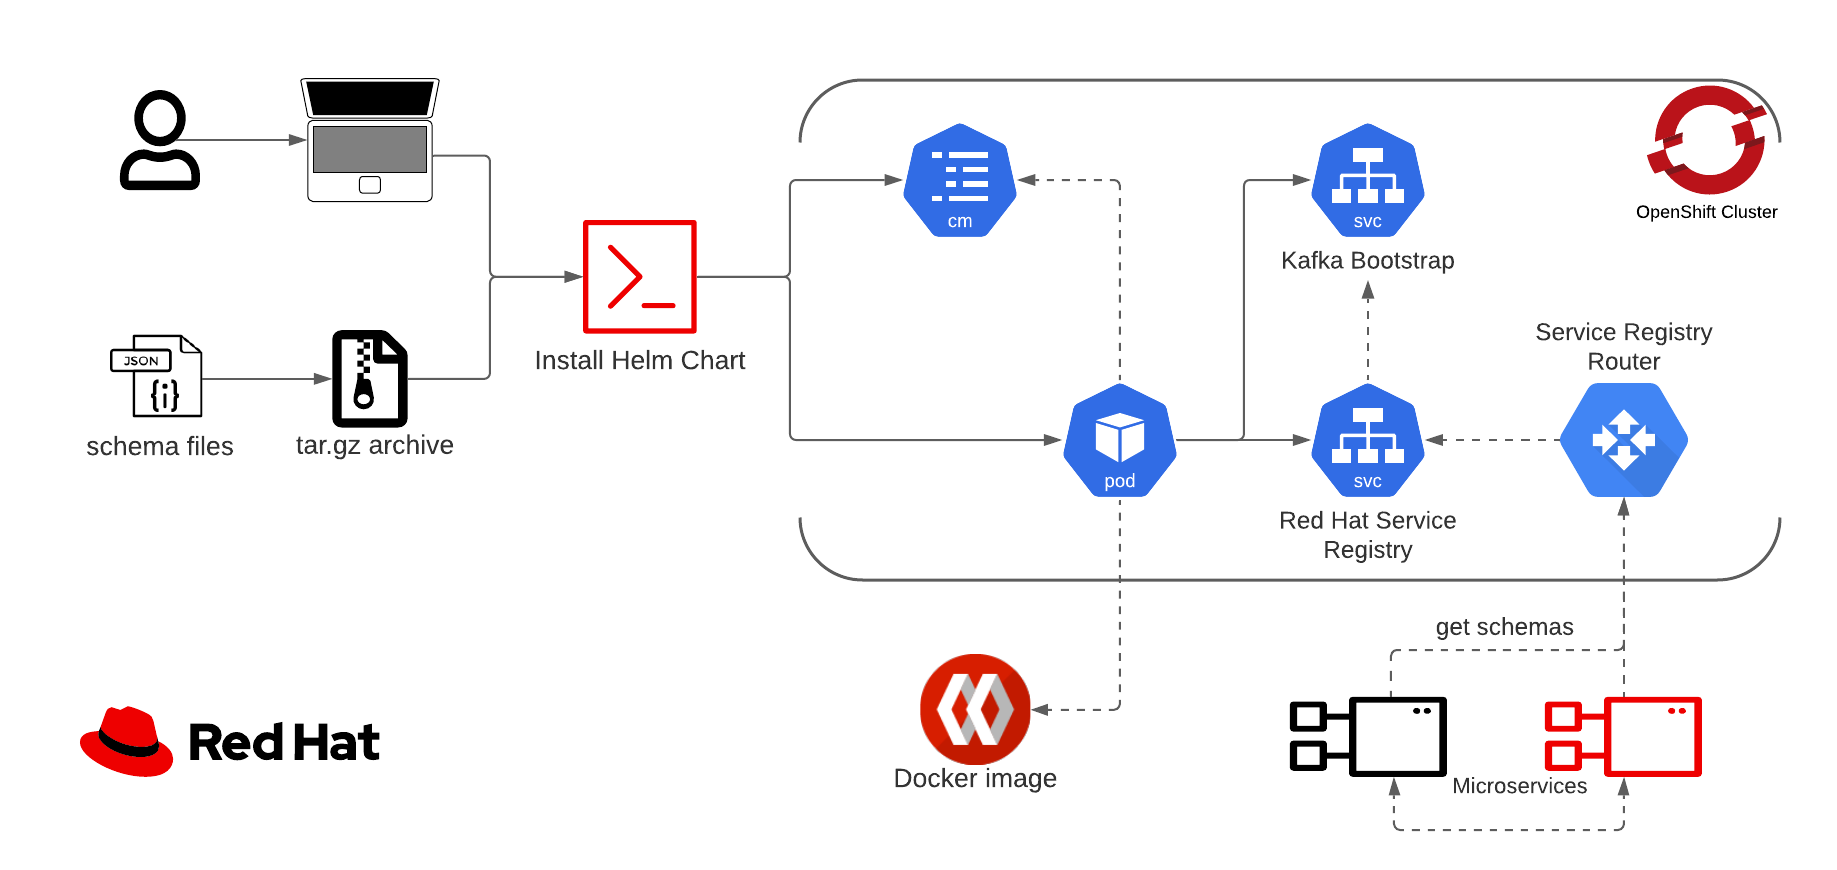
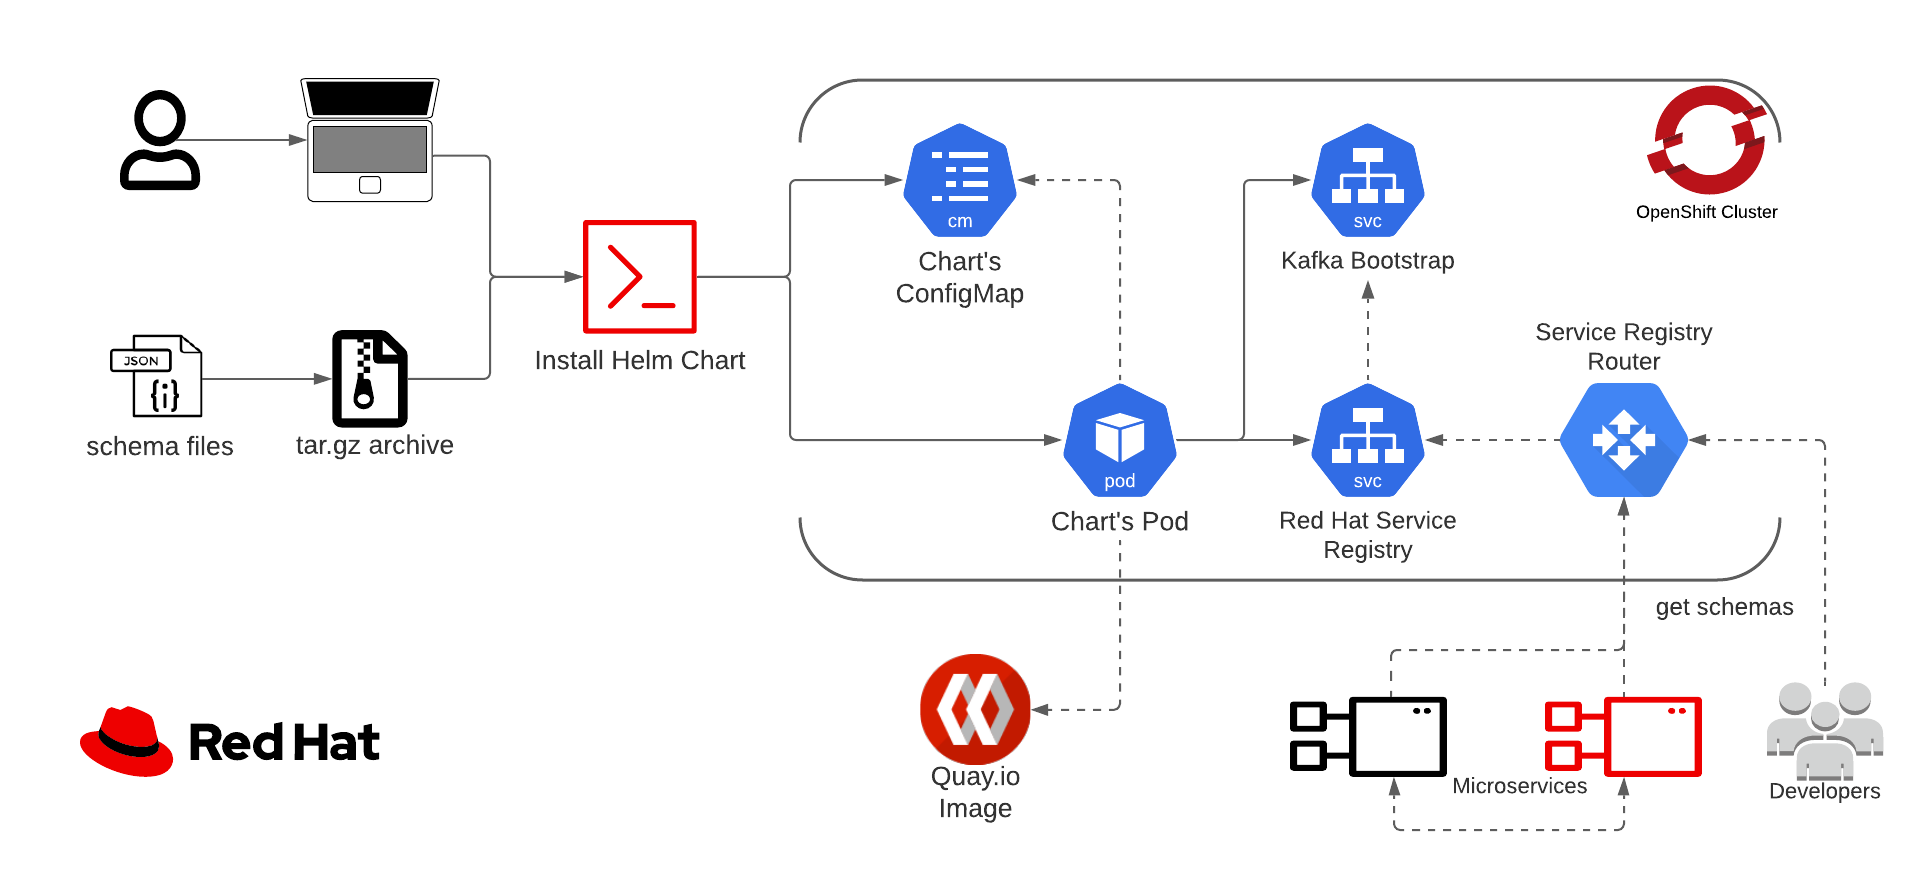
docs: updated schema_pusher diagram and documentation

diff --git a/schema-pusher/README.md b/schema-pusher/README.md
@@ -16,7 +16,7 @@ And if you're in for the *full* [OpenShift][12] experience,</br>
 got your underlying *Kafka* deployment covered with [AMQ Streams][14].
 
 This *Helm Chart* helps you easily migrate your various data structures, schemas to [Red Hat's Service Registry][10].</br>
-Simply create a *tar.gz* archive with all of your schema files (subfolder are ok),</br>
+Simply create a *tar.gz* archive with all of your schema files (subfolders are ok),</br>
 install this *Chart*, and get back to work.</br>
 :grin:
 
@@ -25,7 +25,9 @@ install this *Chart*, and get back to work.</br>
 This *Helm Chart* creates two resources for pushing schema files to [Red Hat's Service Registry][10]:
 
 - A [ConfigMap](templates/configmap.yaml) for storing the configuration values for the operation.
-- A [Pod](templates/pod.yaml) containing one container performing a one-time-execution of the [schema-pusher][15] image.
+- A [Pod](templates/pod.yaml) for publishing the schemas using the [schema-pusher][15] image.
+
+Both resources named after the release suffixed with a *-configmap* and *-pod* respectively.
 
 The *ConfigMap* stores the configuration for the execution,</br>
 as well as a base64 encoded value representing the *tar.gz* archive containing schema files.</br>
@@ -47,7 +49,7 @@ Update [values.xml](values.xml) or use *Helm*s CLI to set the following configur
 | `naming.strategy`  | subject naming strategy (topic, record, topic_record)             | Y        | `topic_record`                                                  |
 | `topics`           | a list of one or more topics to produce the message to            | Y        | `[sometopic]`                                                   |
 | `encoded.archive`  | a base64 encoded value for a tar.gz archive containg schema files | Y        | `$(base64 -w 0 schema_files.tar.gz)`                            |
-| `labels`           | an optional list of strings represnting label for the resources   | N        | `["app: schema-pusher-app"]`                                    |
+| `labels`           | optional key-value pairs used as labels for the resources         | N        | `labelKey: labelValue`                                          |
 
 > Note, when producing messages to multiple topics, only the *topic_record* strategy is allowed.
 
